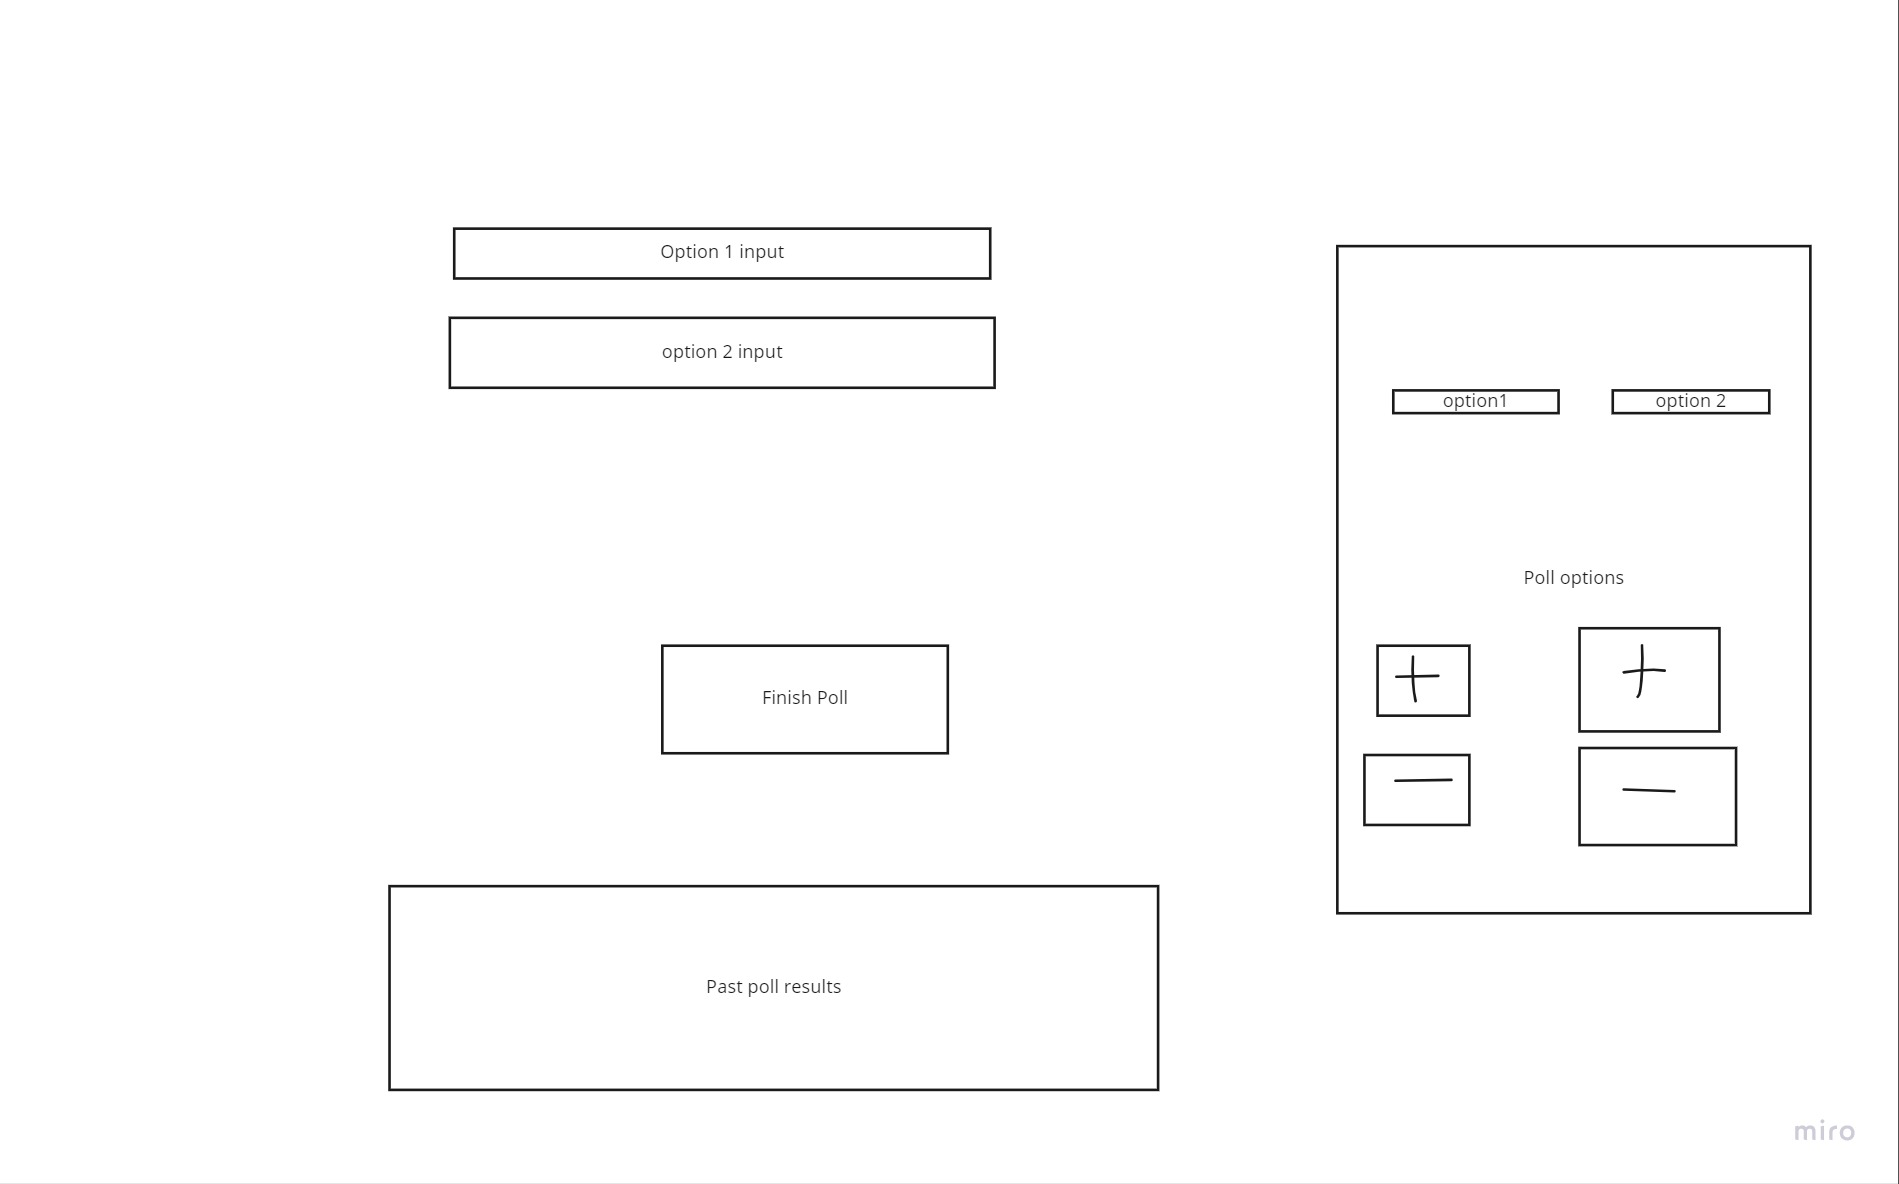
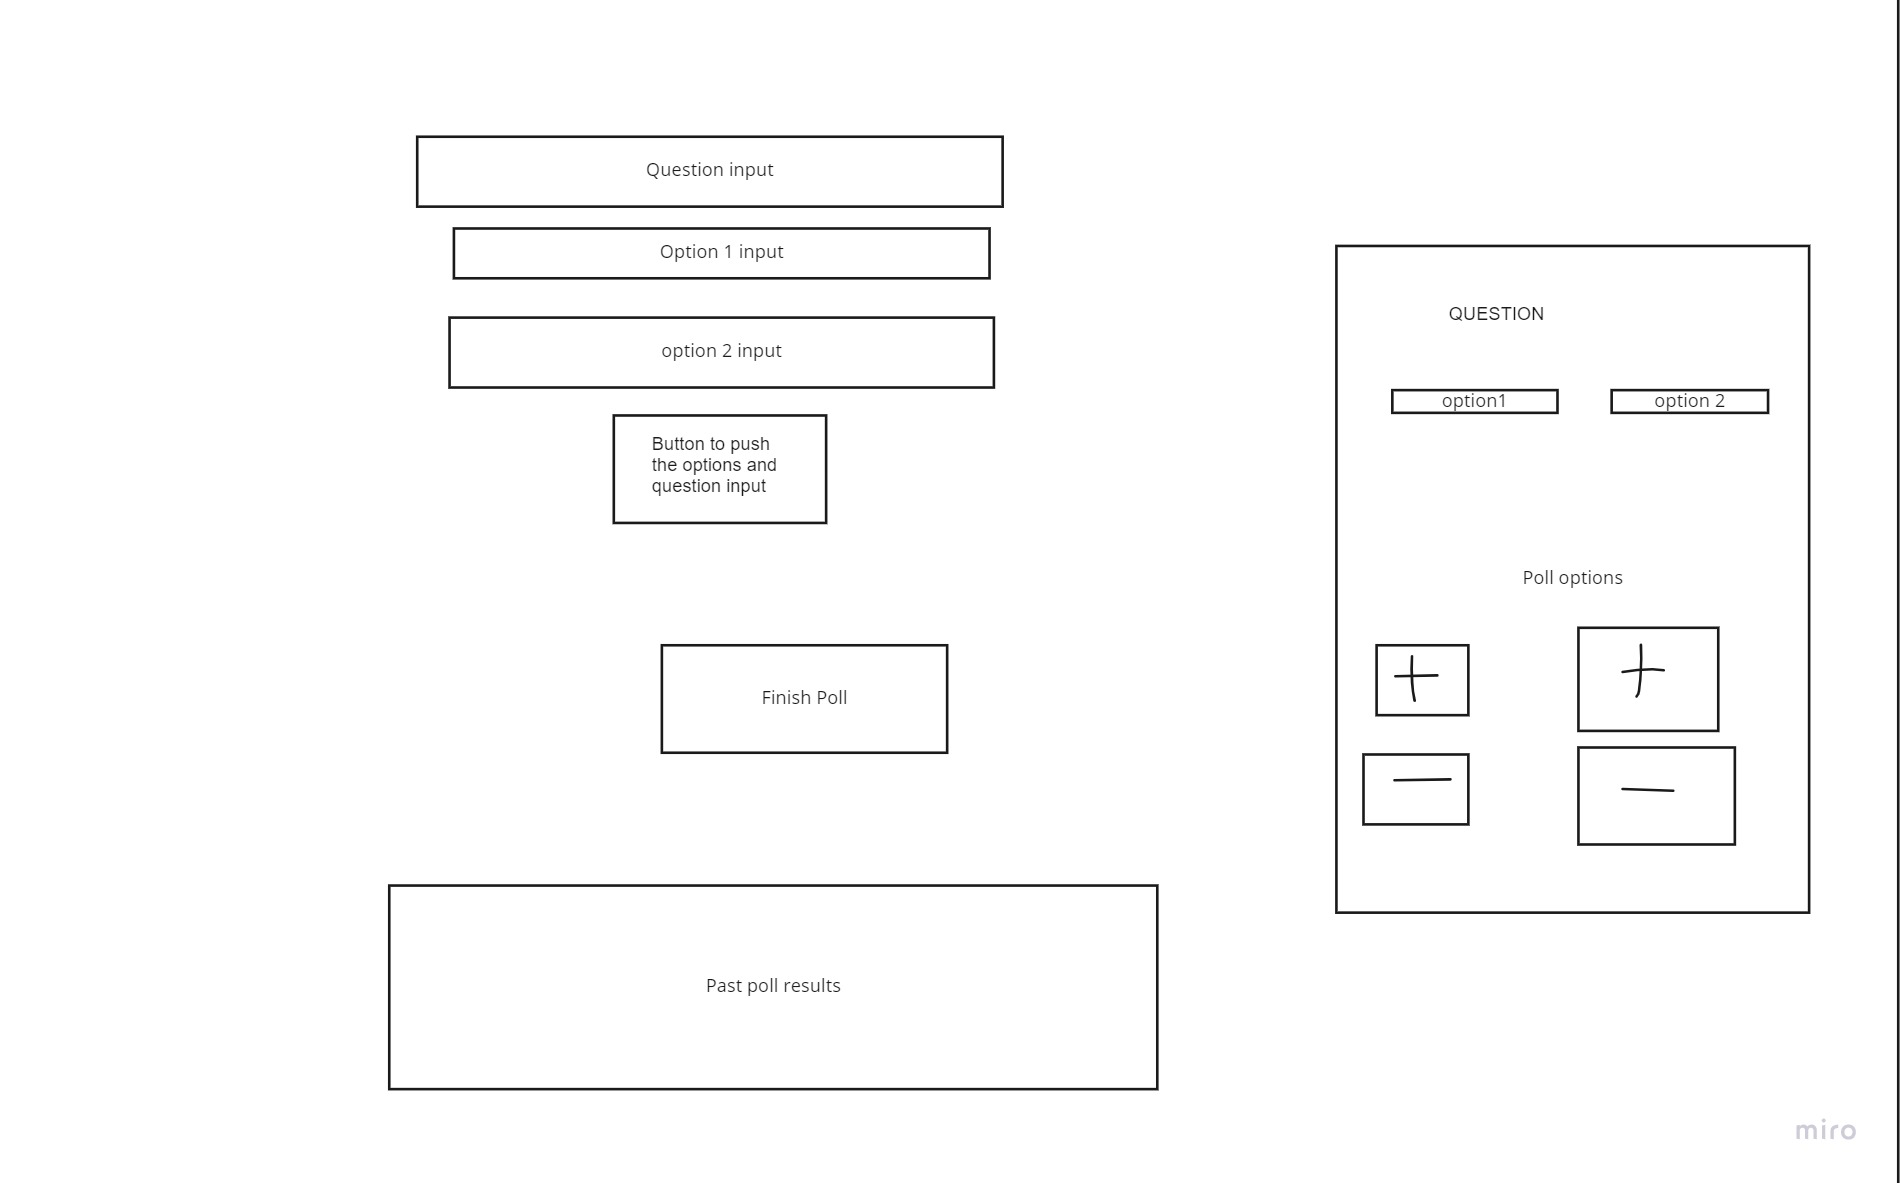
have a very minimal plan drawn out

diff --git a/README.md b/README.md
@@ -8,10 +8,30 @@ If you work on more than one feature at a time, you are guaranteed to multiply y
 
 1) **Make a drawing of your app. Simple "wireframes"** 
 1) **Look at the drawing and imagine using the app. What _state_ do you need to track?** 
+Need to track option 1 and 2 votes. Past poll results.
 1) **Once you have a drawing, name the HTML elements you'll need to realize your vision**
+question input
+input 1
+input 2
+
+storage for input 1 and input 2 and question.
+
++/- buttons for option 1 and 2 .
+button to push the options and questions input.
+finish poll button .
+div to collect previous poll results.
+
+
 1) **For each HTML element ask: Why do I need this? (i.e., "we need div to display the results in")** 
 1) **Once we know _why_ we need each element, think about how to implement the "Why" as a "How" (i.e., `resultsEl.textContent = newResults`)**
+input to put in the options and question. 
+button to push options and question. 
+buttons to add and subtract.
 1) **Find all the 'events' (user clicks, form submit, on load etc) in your app. Ask one by one, "What happens when" for each of these events. Does any state change? Does any DOM update?**
+click event listeners for submit fields and buttons.
+render for the past poll results grabbing the results from the side board see img right side.
+
+
 1) **Think about how to validate each of your features according to a Definition of Done. (Hint: console.log usually helps here.)**
 1) **Consider what features _depend_ on what other features. Use this dependency logic to figure out what order to complete tasks.**
 
